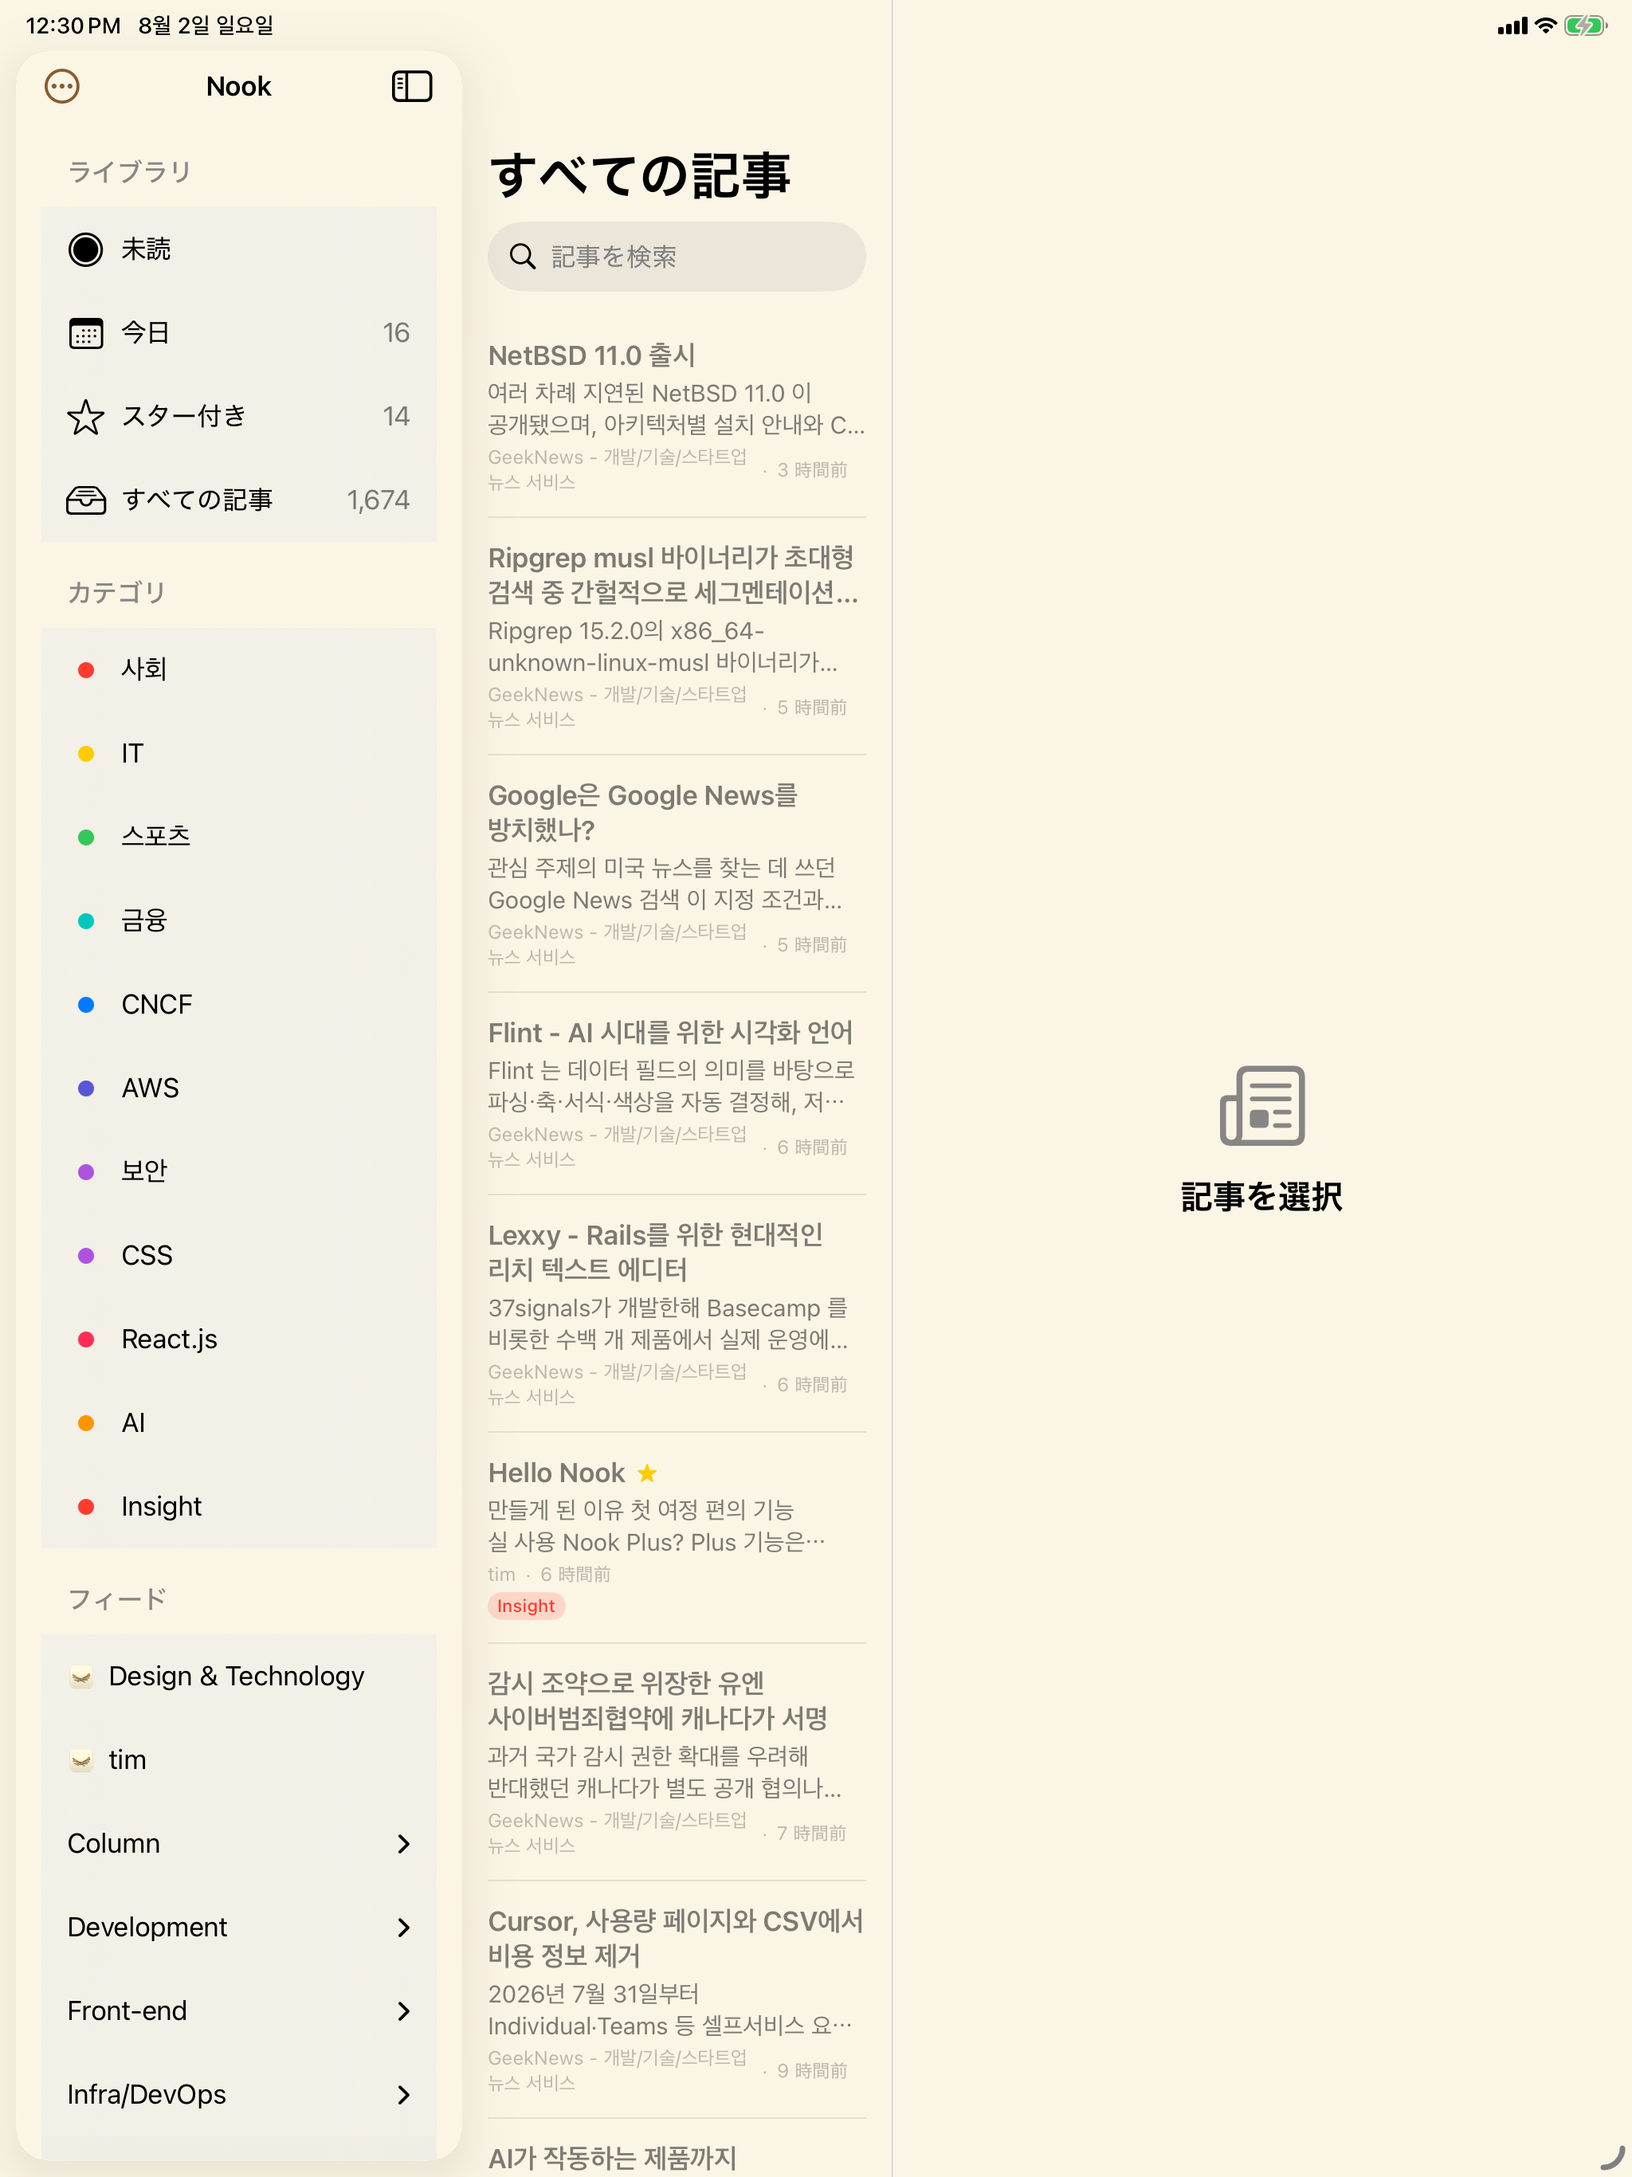
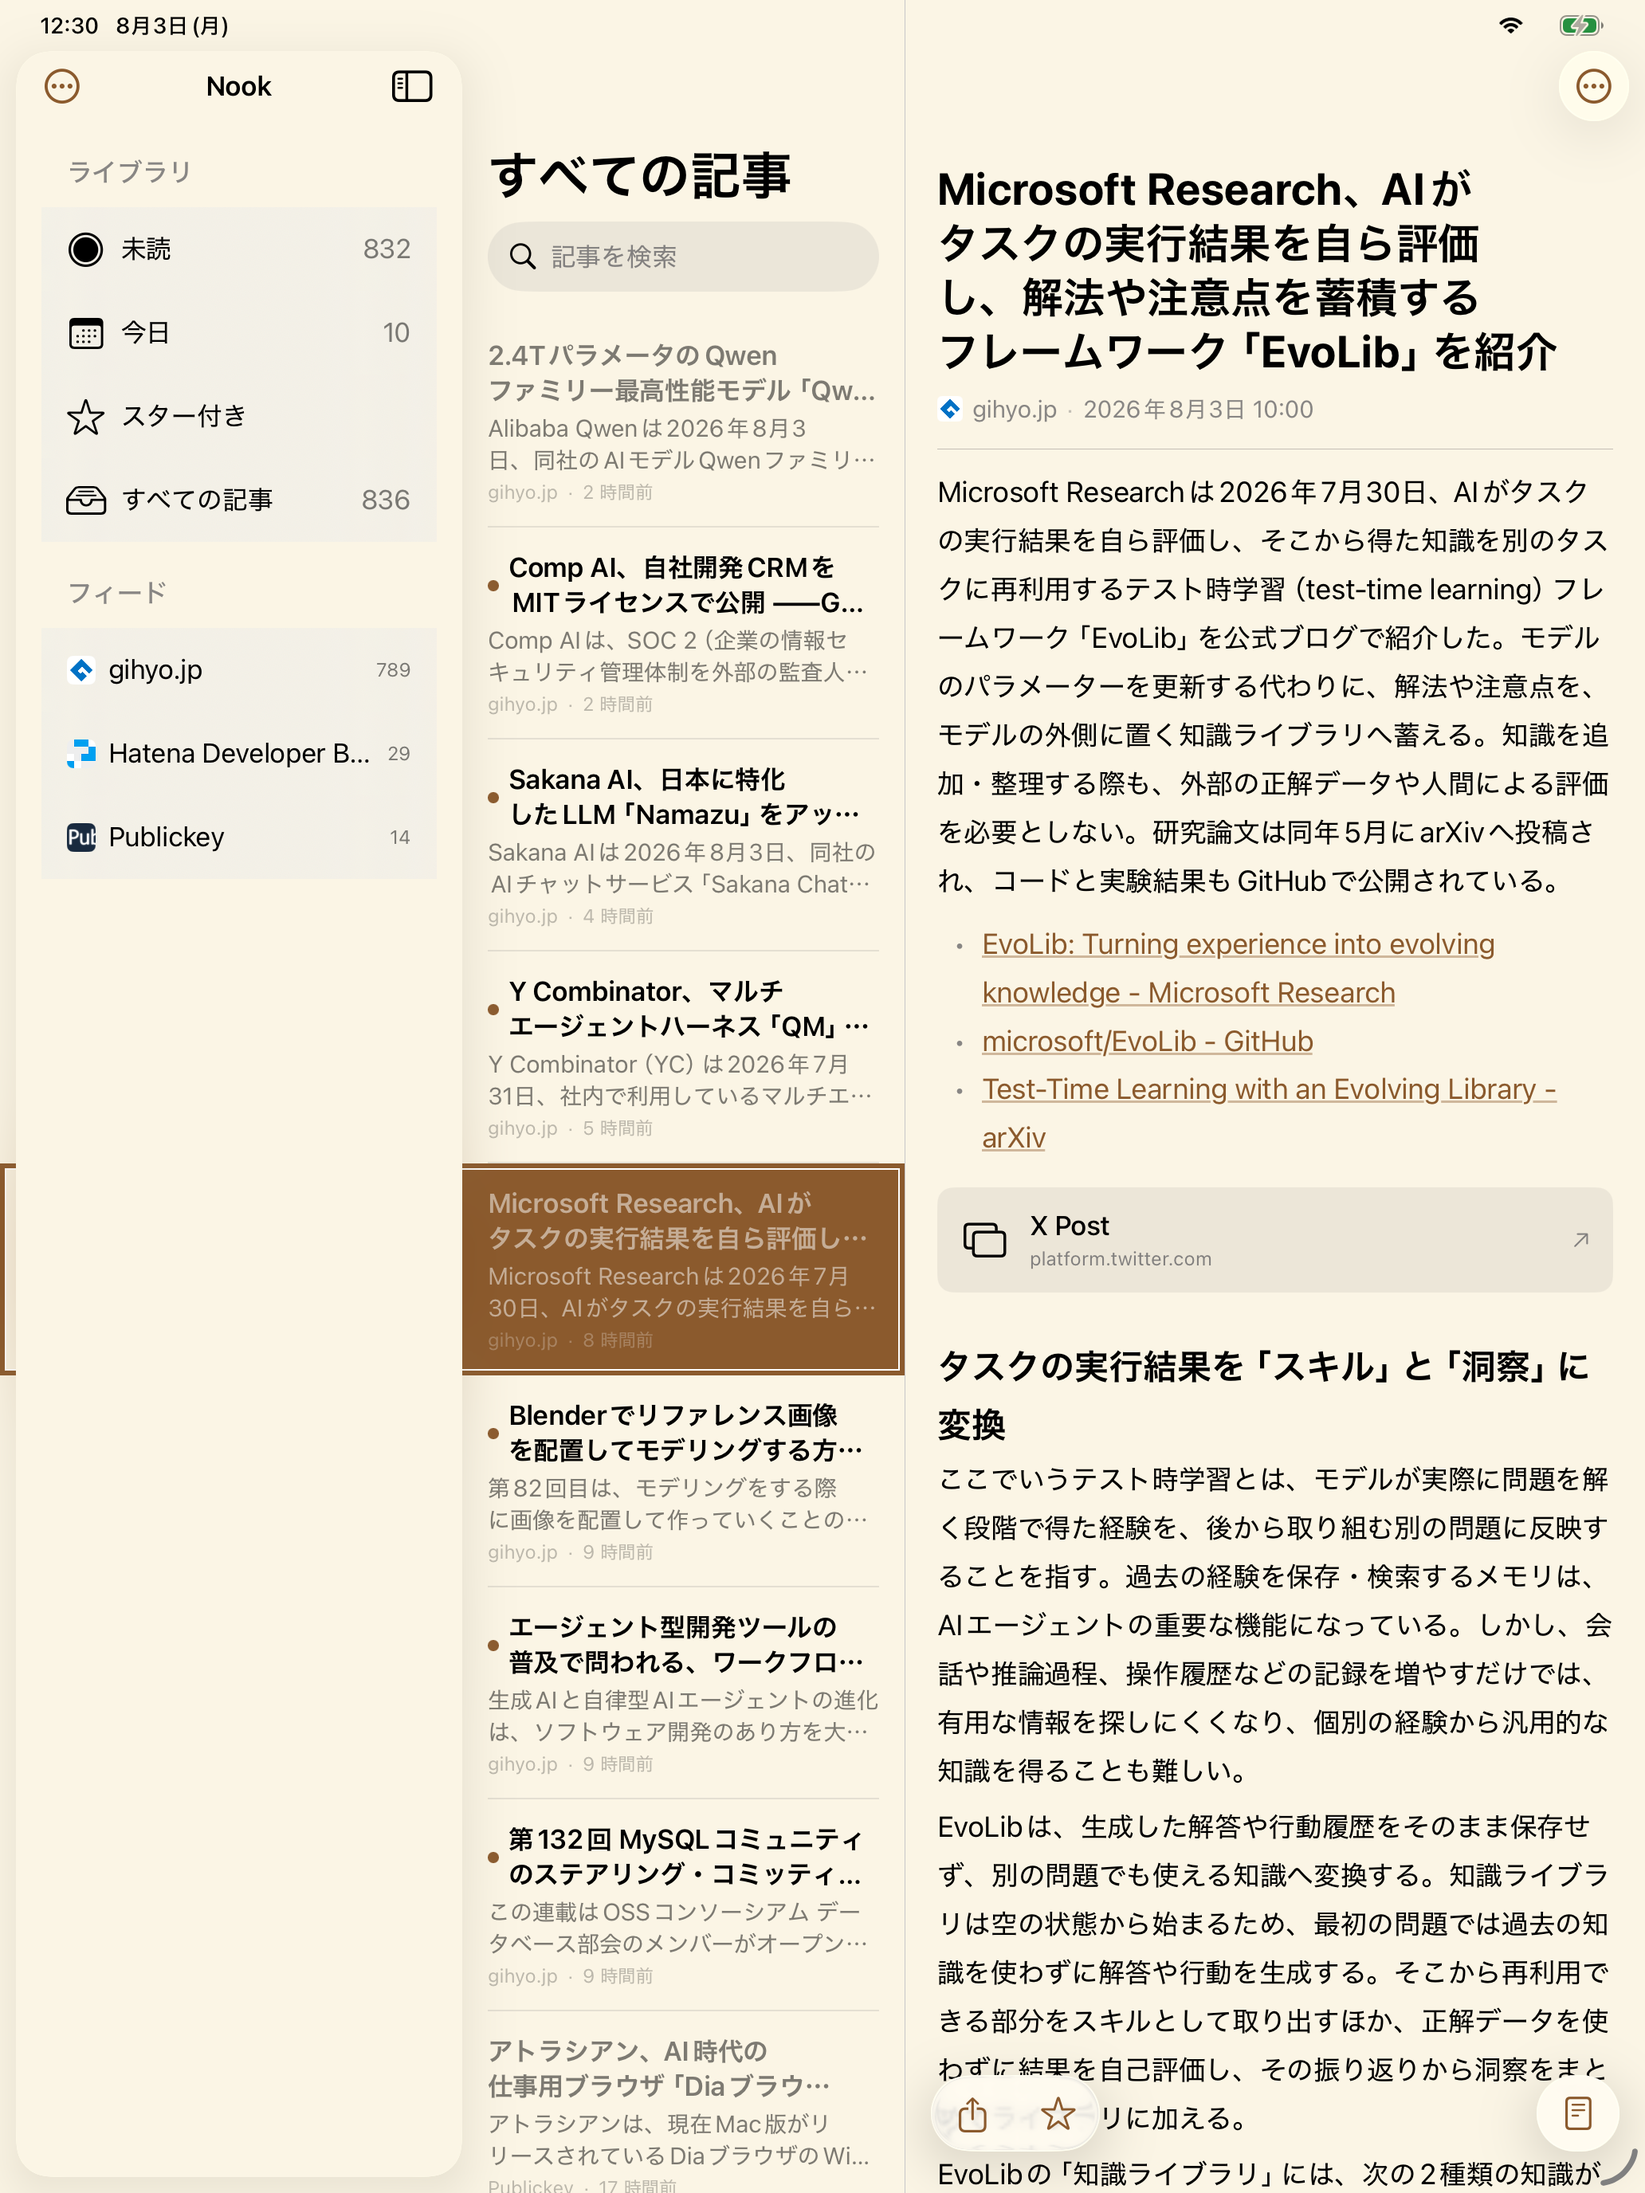
feat: capture every App Store locale on a device in its own language
The ko, ja, and zh-Hans listings had shown Korean article content under a
translated UI, or none at all: only two tablet scenes existed, and the
phone slides fell back to shared captures that were never localized.

Capture all five scenes on both iOS platforms in all four languages, each
from an erased simulator whose system language is the listing's. Where the
articles come from has to follow the language too — the welcome tour offers
Korean-first bundles only to Korean users and English ones to everyone else,
so the Japanese and Chinese sets subscribe sites publishing in those
languages instead of leaving English headlines in the frame.

Screenshots must not show a person, and a live feed will eventually serve a
portrait, so add a Vision-backed check over captures/ and output/ and wire
it to make app-store-check-faces. It caught a conference photo in the first
Japanese reader capture; that scene was reshot on a text article.

The tablet reader slide is now 03-reader, matching its capture and the phone
set, so its old 02-reader output is removed.

diff --git a/marketing/app-store/check-faces.swift b/marketing/app-store/check-faces.swift
@@ -1,0 +1,47 @@
+import AppKit
+import Foundation
+import Vision
+
+// Fails if any screenshot has a detectable human face in it. Store screenshots
+// show real feeds, and a real feed will sooner or later serve a portrait: an
+// author photo, a conference stage, a product page with a person on it. Nothing
+// about the capture flow notices, so this does — run it over captures/ and
+// output/ before publishing a set.
+var offenders: [String] = []
+
+for path in CommandLine.arguments.dropFirst() {
+    guard let image = NSImage(contentsOfFile: path),
+        let tiff = image.tiffRepresentation,
+        let rep = NSBitmapImageRep(data: tiff),
+        let cgImage = rep.cgImage
+    else {
+        FileHandle.standardError.write(Data("cannot read \(path)\n".utf8))
+        exit(2)
+    }
+
+    let request = VNDetectFaceRectanglesRequest()
+    do {
+        try VNImageRequestHandler(cgImage: cgImage, options: [:]).perform([request])
+    } catch {
+        FileHandle.standardError.write(Data("detection failed for \(path): \(error)\n".utf8))
+        exit(2)
+    }
+
+    let faces = request.results ?? []
+    guard !faces.isEmpty else { continue }
+    offenders.append(path)
+    let boxes = faces.map { face in
+        String(
+            format: "(%.2f,%.2f %.2fx%.2f conf %.2f)",
+            face.boundingBox.origin.x, face.boundingBox.origin.y,
+            face.boundingBox.width, face.boundingBox.height, face.confidence)
+    }
+    print("FACE  \(path)  \(faces.count): \(boxes.joined(separator: " "))")
+}
+
+if offenders.isEmpty {
+    print("No faces in \(CommandLine.arguments.count - 1) screenshots.")
+} else {
+    print("\n\(offenders.count) screenshot(s) show a face. Recapture on a different article.")
+    exit(1)
+}

diff --git a/marketing/app-store/README.md b/marketing/app-store/README.md
@@ -53,32 +53,50 @@ plutil -replace AppleLanguages -json '["en"]' \
 xcrun simctl boot <device>
 ```
 
-`simctl erase` first for a true first launch: `simctl uninstall` leaves preferences behind in `cfprefsd`, so the welcome tour does not reappear. The `en` set comes from an erased device whose welcome tour subscribed the English starter bundles — Hacker News, The Verge, Ars Technica, Daring Fireball, Quanta, and NASA — so the lists hold real content and no personal data.
+`simctl erase` first for a true first launch: `simctl uninstall` leaves preferences behind in `cfprefsd`, so the welcome tour does not reappear.
+
+Every set starts from an erased device, so the lists hold real feed content and no personal data. Where the articles come from depends on the language, because the welcome tour offers Korean-first starter bundles only to Korean-language users and the English set to everyone else:
+
+- `ko` — the tour's "IT·개발" and "기술 블로그" bundles (GeekNews, 우아한형제들 기술블로그, tech.kakao.com).
+- `en` — the tour's three English bundles (Hacker News, The Verge, Ars Technica, Daring Fireball, Quanta, NASA).
+- `ja`, `zh-Hans` — no bundle. Use "Or follow a site by its address" on the tour's last page to subscribe sites that publish in that language, otherwise a Japanese or Chinese listing shows English headlines. The current sets use gihyo.jp, Publickey, and the Hatena developer blog; and 少数派, 爱范儿, and 奇客 Solidot.
 
 Turn "Translate titles in the list" off (Settings › Experimental) before capturing a locale whose feeds are already in that language, then clear the translation cache. With nothing to translate, every row keeps a "Translating…" badge.
 
+## Check before publishing
+
+```sh
+make app-store-check-faces
+```
+
+Store screenshots show live feeds, and a live feed eventually serves a portrait — an author photo, a conference stage, a product page with someone in it. Screenshots must not show a person, so this scans every file under `captures/` and `output/` with Vision's face detector and fails with the offending paths. Recapture those scenes on a different article rather than cropping around the face.
+
+Also read the visible headlines. A capture is only as good as whatever the feed published that hour, and a list is easy to reframe: scroll a row or two, or select a single feed, until nothing on screen is something the listing should not carry.
+
 ## Update
 
-1. Replace captures in `docs/screenshots/` or `captures/<locale>/`, or change each slide's `source` path in `config.json`.
+1. Recapture into `captures/<locale>/<device>/<slide id>.png`, or change the slide's paths in `config.json`.
 2. Edit localized titles and subtitles in `config.json`.
-3. To add a language, add its identifier to `locales` and add matching copy under every slide's `localized` object.
+3. To add a language, add its identifier to `locales`, add matching copy under every slide's `localized` object, and capture it on a device in that language.
 4. Add, remove, or reorder slides in `config.json`.
-5. Run `make app-store-screenshots` again.
+5. Run `make app-store-screenshots`, then `make app-store-check-faces`.
 
-`source` is the fallback app capture. When the app UI itself should be localized, add per-language captures with `localizedSources`:
+Both iOS platforms carry the same five scenes, and every one of them is captured per language, so a slide names all four:
 
 ```json
 {
-  "source": "docs/screenshots/ios-library.png",
+  "id": "01-library",
+  "source": "marketing/app-store/captures/ko/iphone-6.9/01-library.png",
   "localizedSources": {
-    "ko": "marketing/app-store/captures/ko/ios-library.png",
-    "ja": "marketing/app-store/captures/ja/ios-library.png",
-    "zh-Hans": "marketing/app-store/captures/zh-Hans/ios-library.png"
+    "ko": "marketing/app-store/captures/ko/iphone-6.9/01-library.png",
+    "en": "marketing/app-store/captures/en/iphone-6.9/01-library.png",
+    "ja": "marketing/app-store/captures/ja/iphone-6.9/01-library.png",
+    "zh-Hans": "marketing/app-store/captures/zh-Hans/iphone-6.9/01-library.png"
   }
 }
 ```
 
-Locales without an entry continue to use `source`, so captures can be localized incrementally.
+`source` is the fallback for a locale with no `localizedSources` entry, which lets a new language render before its captures exist — but a listing should not ship that way, since the screenshots would be in the wrong language.
 
 The optional `crop` values are normalized fractions of the source image and use a top-left origin. For example:
 
